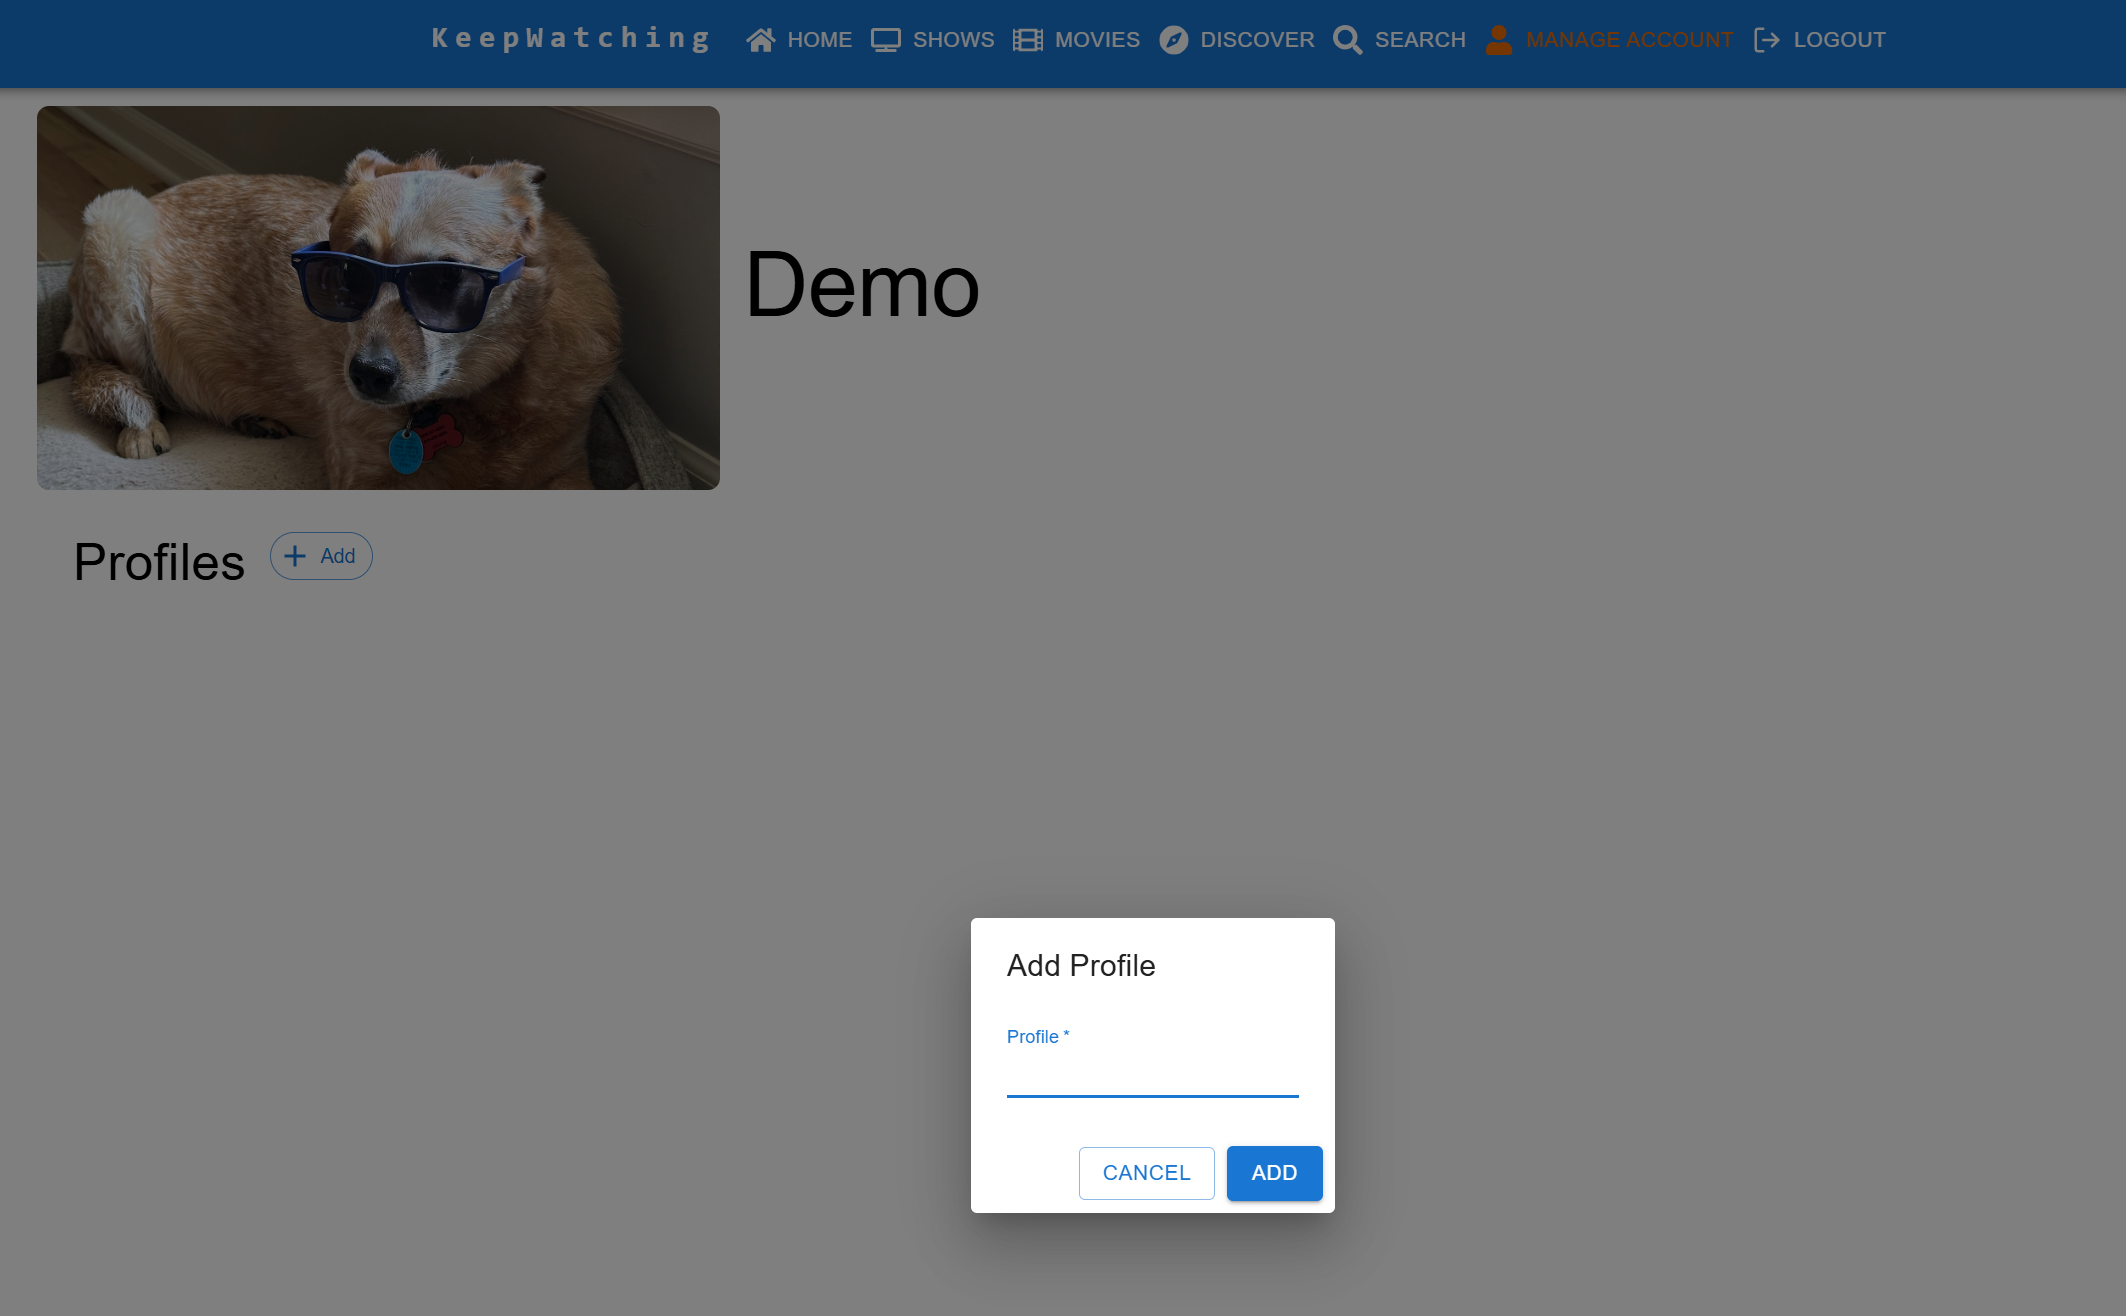
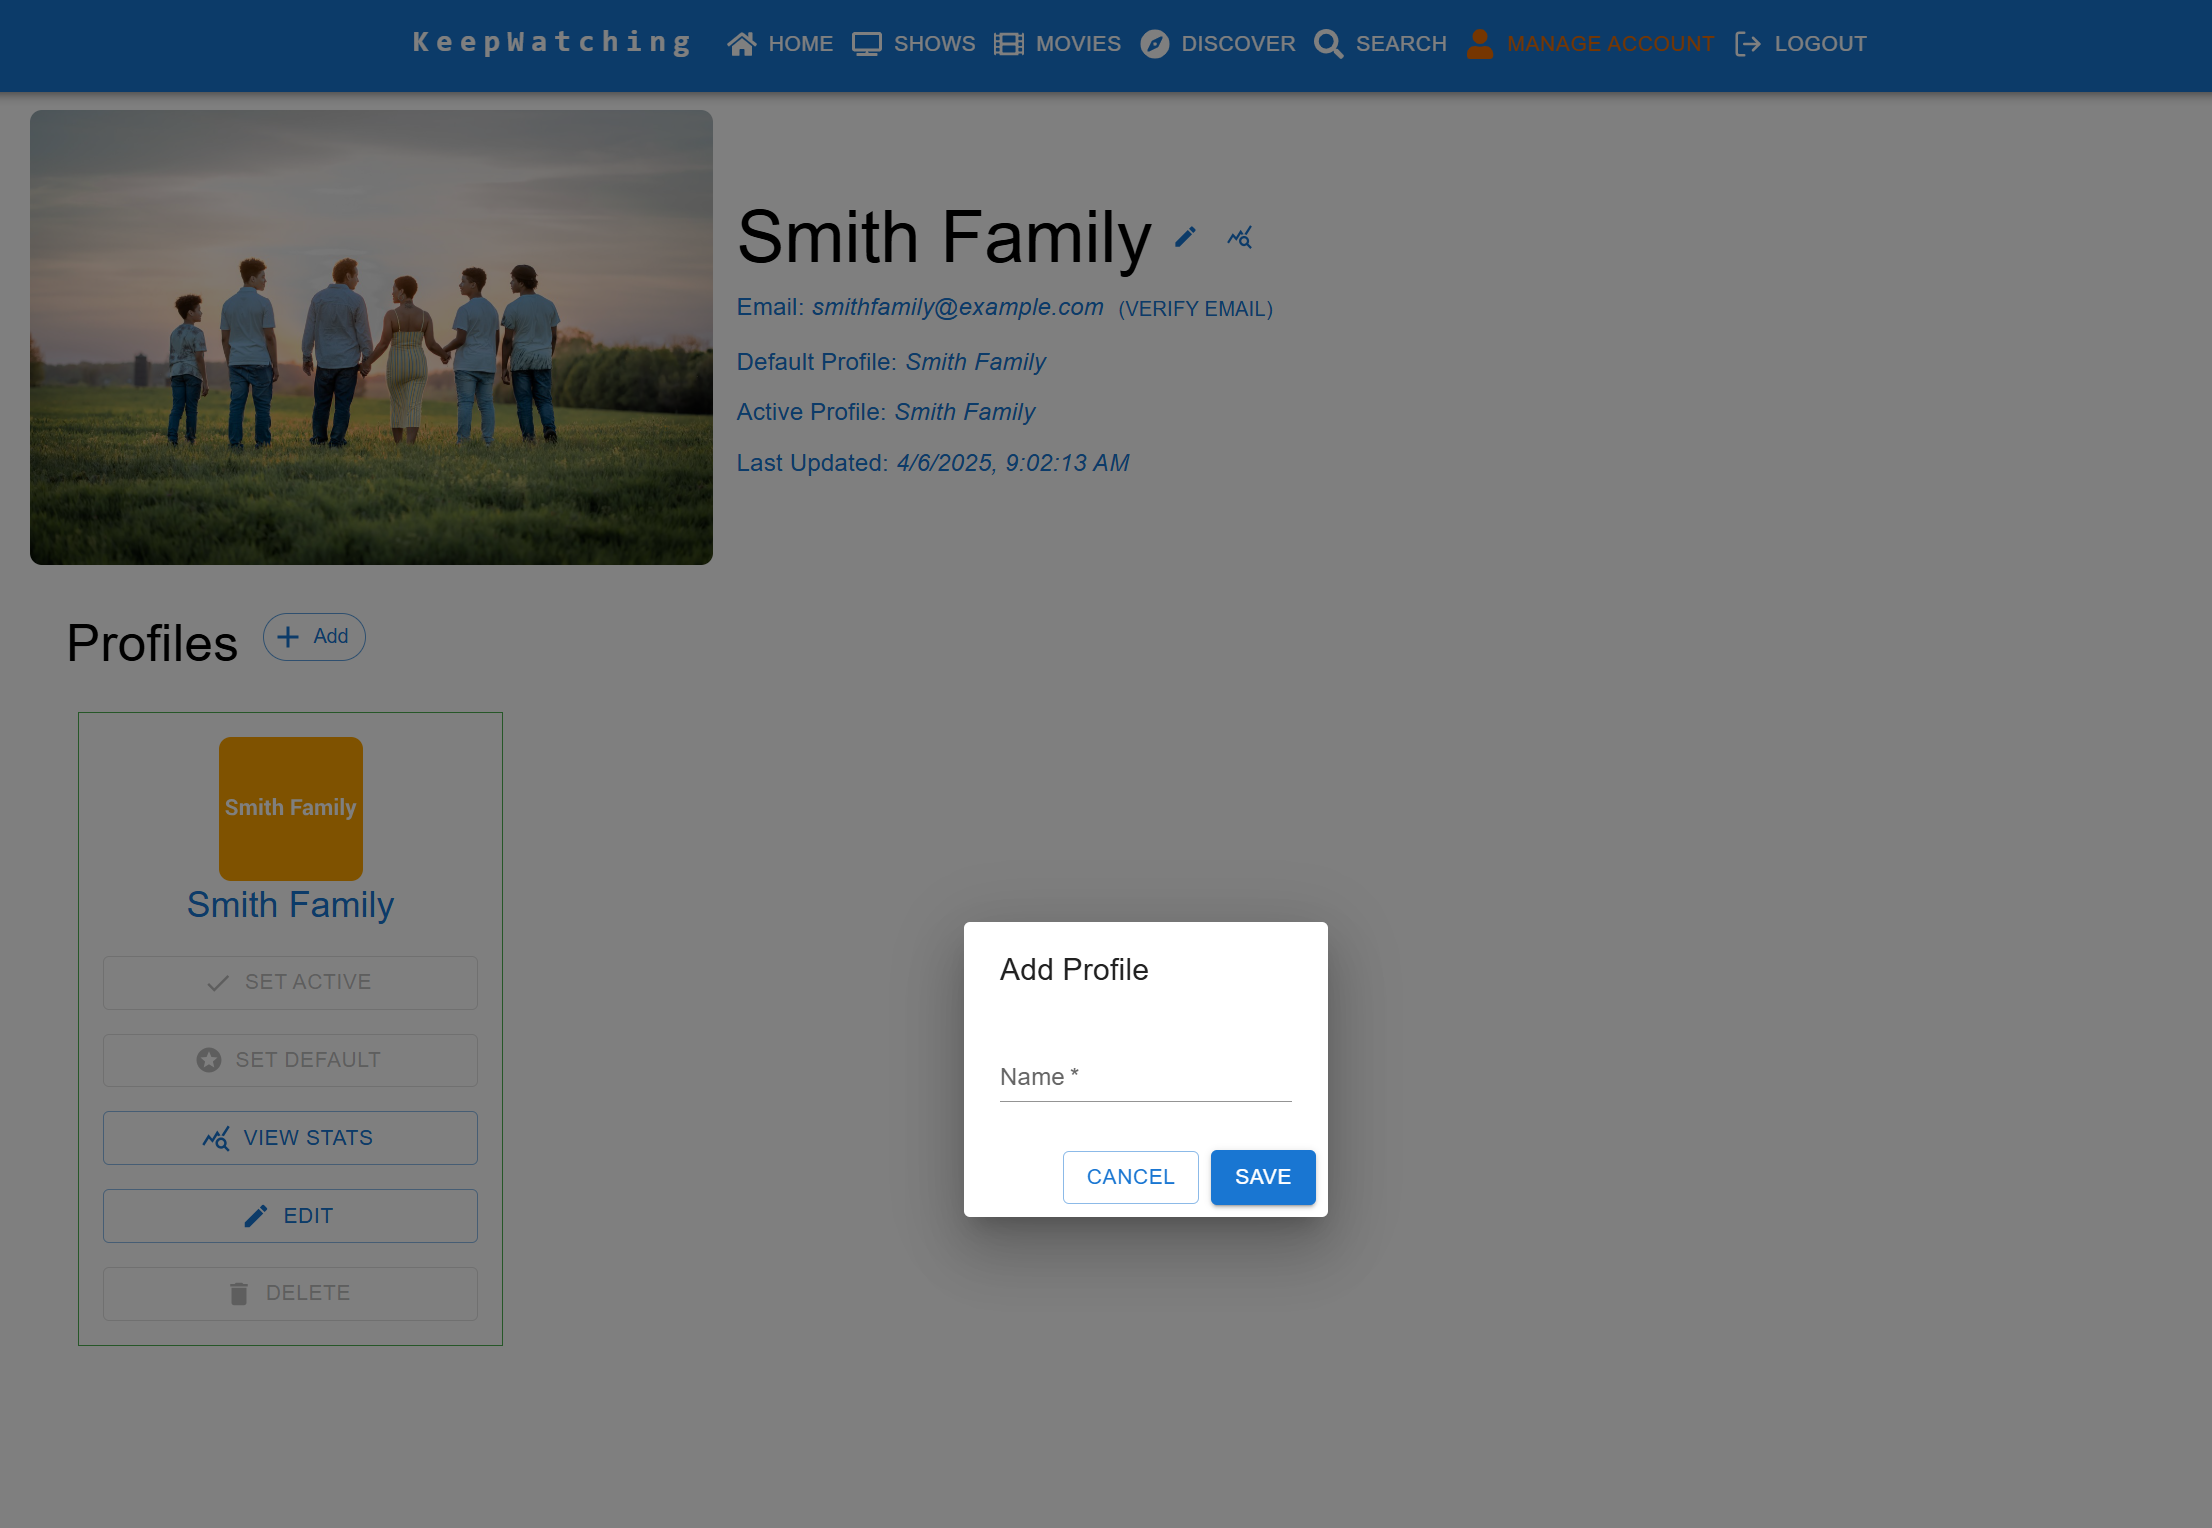
Start updates to readme to match current UI state

diff --git a/README.md b/README.md
@@ -5,25 +5,29 @@ This project was bootstrapped with [Create React App](https://github.com/faceboo
 ## Features
 
 ### Authorization
-All the routes are protected except the login and register pages. Once a user is successfully logged in, the application becomes available.
+All the routes are protected except the login and register pages. Once a user is successfully logged in, the application becomes available.<br>
 
 #### Login
+Users can login with the email & password they used during their registration process or by using a linked Google account.<br>
 ![Login Screenshot](images/login.png)
 
 #### Register
+Users register by entering in their account name, email and password. Authentication is managed by the Google Firebase Auth SDK and KeepWatching has no access to a user's password. As part of the registration process a default profile is created for the account using the same name as the account.<br>
 ![Register Screenshot](images/register.png)
 
-###
-After logging in or registering, users are redirected to the home page, where their account picture is displayed with cards for each created profile. Users can click on the 'Shows' or 'Movies' chips within a profile card to view those items for that profile. They can also select a watch status count to view that content filtered to that watch status.
-![Home](images/home.png)
+### Home
+After logging in or registering, users are redirected to the home page, where a dashboard for default/active profile of the account is displayed. This dashboard provides an count of the shows and movies watched and to be watched for the profile as well as giving them access to more information about their TV Shows & Movies and what to keep watching.<br>
+![Initial Profile Dashboard Screenshot](images/home_initial.png)
 
-### Account Management
-Once an account is created or a an existing account is logged in, they can manage the account by uploading an account picture or adding profiles to group/manage the shows & movies being tracked. Profiles can have their names edited; they can also be deleted.
+### Manage Account
+The Manage Account page is where users will go to manage their account, including creating/editing profiles, uploading account and profile pictures and viewing statistics about their account and profiles.<br>
 
 #### Manage Account
+When managing an account, the user sees their email (and whether it's been verified), their default profile, their active profile and the last time the active profile was updated. They will also see the profiles that exist for the account. They have the ability to upload an image for the account or profiles. Change the name of the account or any profiles. Set the active or default profile or delete a profile. And to view statistics for the account or any profile.
 ![Manage Account Screenshot](images/manage_account.png)
-#### Manage Account - Upload Image
-![Manage Account Screenshot Upload Image](images/manage_account_upload.png)
+#### Manage Account - Upload Account Image
+![Manage Account Screenshot Upload Account Image](images/manage_account_upload.png)
+![Manage Account Screenshot Upload Account Image](images/manage_account_upload_after.png)
 #### Manage Account - Add Profile
 ![Manage Account Screenshot Add Profile](images/manage_account_add.png)
 ![Manage Account Screenshot After Add Profile](images/manage_account_after_add.png)
@@ -53,7 +57,7 @@ After selecting a profile from the drop-down, the shows for that profile will be
 ![Shows for a profile](images/shows.png)
 The list of shows can further be filtered by Genre, Streaming Service and Watch Status.
 ![Shows for a profile with filter](images/shows_with_filters.png)
-Users can mark a show as watched (if current status is not watched or watching) or not wacthed (if current status is watched). Marking a show as watched will also mark all seasons and episodes for that show as watched and vice versa for not wacthed.
+Users can mark a show as watched (if current status is not watched or watching) or not watched (if current status is watched). Marking a show as watched will also mark all seasons and episodes for that show as watched and vice versa for not watched.
 ![Shows watch status](images/shows_mark_watched.png)
 Selecting a show will take the user into the details for that show. This view will show a list of the shows seasons and each season can be expanded to display the episodes for the season. Like shows, the watch status of a season or episode can be set.
 ![Show details](images/show_details.png)
